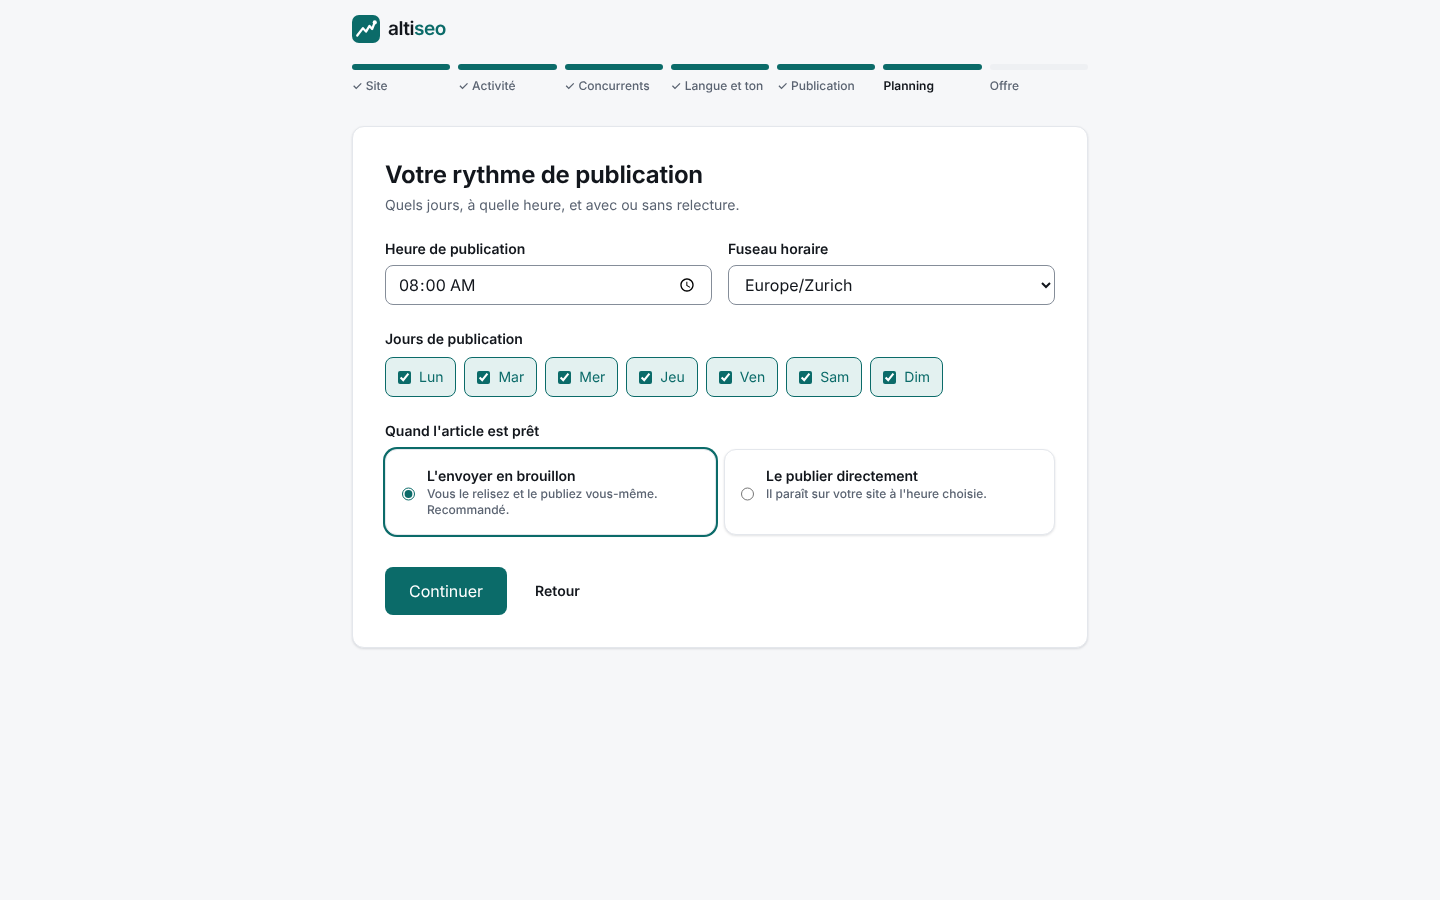
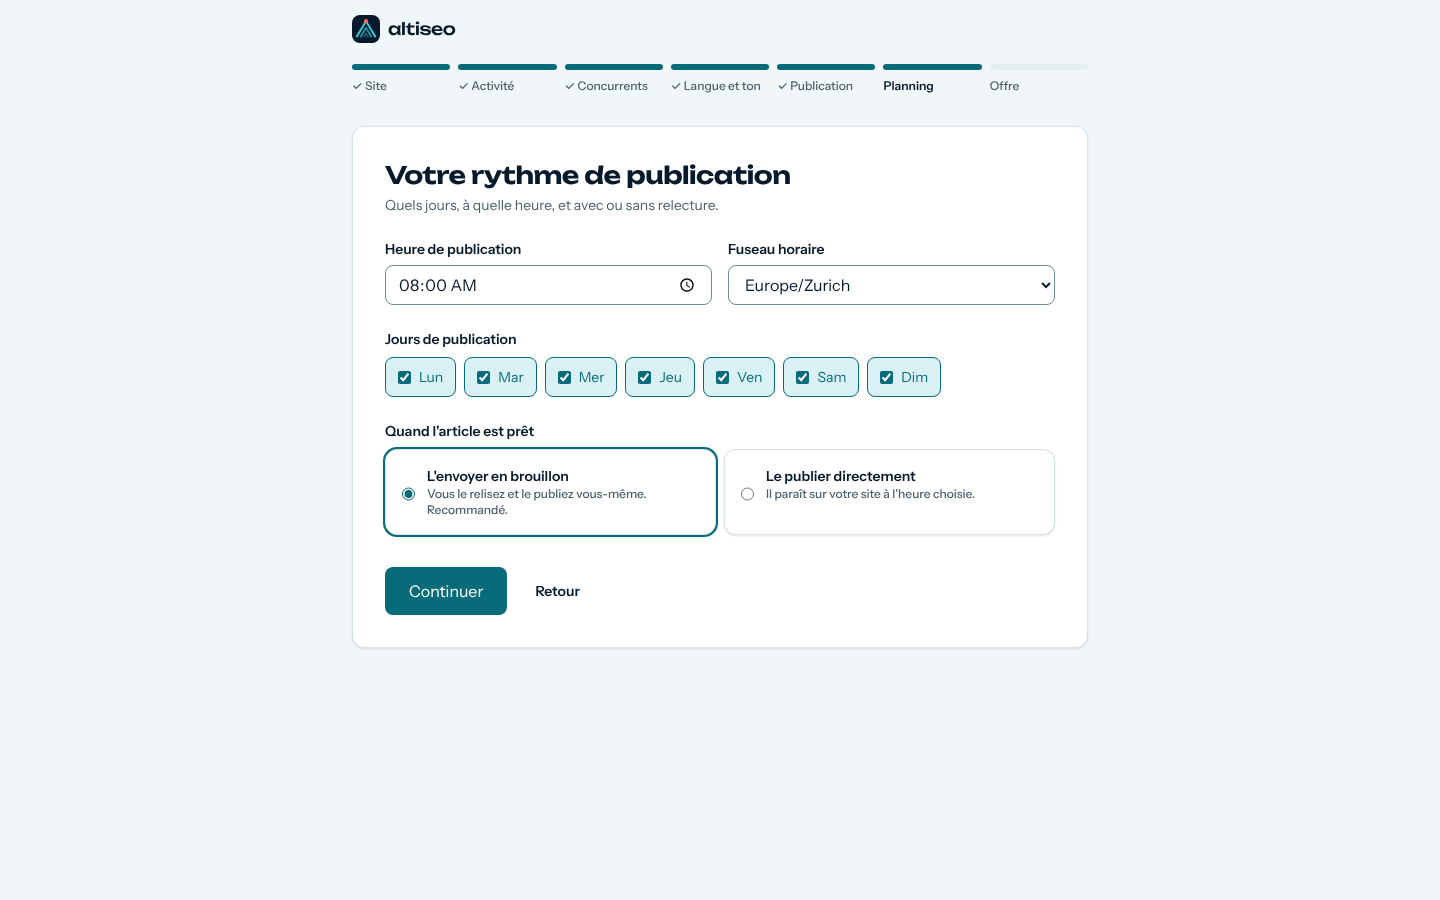
Apply the chosen brand identity across the app
Contour-line logo and favicon, glacier night / cyan / coral palette in
light and dark (53 contrast pairs passing AA; action colour darkened to
#076B7A so white text stays readable), Unbounded for the name and h1
headings, Instrument Sans for everything else. Brand charter written in
replica/brand.md, tokens remain the single source.

Claude-Session: https://claude.ai/code/session_011RBLGKB5dKpvgzhoEGGa65

diff --git a/src/styles/tokens.css b/src/styles/tokens.css
@@ -1,17 +1,17 @@
 /* Généré par build_tokens.py depuis tokens.json. Ne pas modifier à la main. */
 :root {
   --c-bg: 255 255 255;
-  --c-surface: 246 247 249;
-  --c-surface-sunken: 238 240 243;
-  --c-border: 228 231 236;
-  --c-border-input: 133 141 153;
-  --c-text: 18 22 28;
-  --c-text-muted: 90 99 113;
-  --c-accent: 11 107 105;
-  --c-accent-hover: 9 87 85;
-  --c-accent-soft: 227 241 240;
+  --c-surface: 241 247 249;
+  --c-surface-sunken: 228 238 241;
+  --c-border: 213 226 230;
+  --c-border-input: 110 138 147;
+  --c-text: 7 26 43;
+  --c-text-muted: 74 95 107;
+  --c-accent: 7 107 122;
+  --c-accent-hover: 5 88 106;
+  --c-accent-soft: 217 241 244;
   --c-on-accent: 255 255 255;
-  --c-focus: 11 107 105;
+  --c-focus: 7 107 122;
   --c-danger: 180 35 24;
   --c-danger-soft: 254 243 242;
   --c-warning: 147 55 13;
@@ -20,8 +20,12 @@
   --c-success-soft: 236 253 243;
   --c-info: 23 92 211;
   --c-info-soft: 239 248 255;
-  --font-sans: Inter, ui-sans-serif, system-ui, -apple-system, Segoe UI, Roboto, sans-serif;
-  --font-serif: Source Serif 4, Georgia, Cambria, serif;
+  --c-highlight: 255 106 77;
+  --c-brand-night: 7 26 43;
+  --c-brand-cyan: 53 208 224;
+  --font-sans: "Instrument Sans Variable", ui-sans-serif, system-ui, -apple-system, "Segoe UI", Roboto, sans-serif;
+  --font-display: "Unbounded Variable", "Instrument Sans Variable", ui-sans-serif, system-ui, sans-serif;
+  --font-serif: "Source Serif 4 Variable", Georgia, Cambria, serif;
   --font-mono: ui-monospace, SFMono-Regular, Menlo, Consolas, monospace;
   --radius-sm: 6px;
   --radius-md: 8px;
@@ -43,18 +47,18 @@
 }
 @media (prefers-color-scheme: dark) {
   :root:not([data-theme="light"]) {
-  --c-bg: 14 17 22;
-    --c-surface: 22 26 33;
-    --c-surface-sunken: 29 34 43;
-    --c-border: 42 48 58;
-    --c-border-input: 115 124 138;
-    --c-text: 238 241 245;
-    --c-text-muted: 163 171 184;
-    --c-accent: 94 201 195;
-    --c-accent-hover: 138 219 214;
-    --c-accent-soft: 17 48 47;
-    --c-on-accent: 14 17 22;
-    --c-focus: 94 201 195;
+  --c-bg: 7 26 43;
+    --c-surface: 12 36 56;
+    --c-surface-sunken: 18 48 72;
+    --c-border: 30 63 88;
+    --c-border-input: 108 142 162;
+    --c-text: 234 244 247;
+    --c-text-muted: 157 181 192;
+    --c-accent: 53 208 224;
+    --c-accent-hover: 111 224 236;
+    --c-accent-soft: 15 53 71;
+    --c-on-accent: 7 26 43;
+    --c-focus: 53 208 224;
     --c-danger: 249 112 102;
     --c-danger-soft: 58 21 18;
     --c-warning: 253 176 34;
@@ -63,22 +67,25 @@
     --c-success-soft: 12 44 29;
     --c-info: 132 202 255;
     --c-info-soft: 15 39 64;
+    --c-highlight: 255 106 77;
+    --c-brand-night: 7 26 43;
+    --c-brand-cyan: 53 208 224;
     color-scheme: dark;
   }
 }
 :root[data-theme="dark"] {
-  --c-bg: 14 17 22;
-  --c-surface: 22 26 33;
-  --c-surface-sunken: 29 34 43;
-  --c-border: 42 48 58;
-  --c-border-input: 115 124 138;
-  --c-text: 238 241 245;
-  --c-text-muted: 163 171 184;
-  --c-accent: 94 201 195;
-  --c-accent-hover: 138 219 214;
-  --c-accent-soft: 17 48 47;
-  --c-on-accent: 14 17 22;
-  --c-focus: 94 201 195;
+  --c-bg: 7 26 43;
+  --c-surface: 12 36 56;
+  --c-surface-sunken: 18 48 72;
+  --c-border: 30 63 88;
+  --c-border-input: 108 142 162;
+  --c-text: 234 244 247;
+  --c-text-muted: 157 181 192;
+  --c-accent: 53 208 224;
+  --c-accent-hover: 111 224 236;
+  --c-accent-soft: 15 53 71;
+  --c-on-accent: 7 26 43;
+  --c-focus: 53 208 224;
   --c-danger: 249 112 102;
   --c-danger-soft: 58 21 18;
   --c-warning: 253 176 34;
@@ -87,5 +94,8 @@
   --c-success-soft: 12 44 29;
   --c-info: 132 202 255;
   --c-info-soft: 15 39 64;
+  --c-highlight: 255 106 77;
+  --c-brand-night: 7 26 43;
+  --c-brand-cyan: 53 208 224;
   color-scheme: dark;
 }

diff --git a/src/components/brand/logo.tsx b/src/components/brand/logo.tsx
@@ -1,20 +1,18 @@
 /**
- * Logo provisoire d'Altiseo : une ligne qui monte en dessinant deux sommets (l'altitude, la courbe
- * de trafic), dans un carré sarcelle. Point de départ pour le graphiste, voir replica/brand.md.
+ * Logo d'Altiseo, « courbes de niveau » : trois lignes de carte topographique emboîtées dessinent un
+ * sommet et la lettre A ; le point corail marque le sommet atteint. Mêmes couleurs en clair et en
+ * sombre (jetons brand-night, brand-cyan, highlight). Voir replica/brand.md.
  */
 export function LogoMark({ size = 32, className }: { size?: number; className?: string }) {
   return (
     <svg width={size} height={size} viewBox="0 0 32 32" className={className} aria-hidden="true" focusable="false">
-      <rect width="32" height="32" rx="8" className="fill-accent" />
-      <path
-        d="M6 23.5 12.5 15l3.5 4 4-6.5 3 3.5L26 8.5"
-        fill="none"
-        className="stroke-on-accent"
-        strokeWidth="2.6"
-        strokeLinecap="round"
-        strokeLinejoin="round"
-      />
-      <circle cx="26" cy="8.5" r="2.4" className="fill-on-accent" />
+      <rect width="32" height="32" rx="9" className="fill-brand-night" />
+      <g fill="none" className="stroke-brand-cyan" strokeWidth="2.2" strokeLinecap="round" strokeLinejoin="round">
+        <path d="M5.5 24.5 16 7l10.5 17.5" />
+        <path d="M10.2 24.5 16 14.6l5.8 9.9" opacity=".65" />
+        <path d="M14 24.5l2-3.4 2 3.4" opacity=".35" />
+      </g>
+      <circle cx="16" cy="7" r="2.3" className="fill-highlight" />
     </svg>
   );
 }
@@ -23,9 +21,7 @@ export function Logo({ size = 32, className }: { size?: number; className?: stri
   return (
     <span className={`inline-flex items-center gap-2 ${className ?? ""}`}>
       <LogoMark size={size} />
-      <span aria-hidden="true" className="font-semibold tracking-tight text-text" style={{ fontSize: size * 0.68 }}>
-        alti<span className="text-accent">seo</span>
-      </span>
+      <span aria-hidden="true" className="font-display font-medium tracking-tight text-text" style={{ fontSize: size * 0.6 }}>altiseo</span>
       <span className="sr-only">Altiseo</span>
     </span>
   );

diff --git a/src/app/globals.css b/src/app/globals.css
@@ -1,4 +1,5 @@
-@import "@fontsource-variable/inter";
+@import "@fontsource-variable/instrument-sans";
+@import "@fontsource-variable/unbounded";
 @import "@fontsource-variable/source-serif-4";
 @import "../styles/tokens.css";
 @tailwind base;
@@ -6,12 +7,10 @@
 @tailwind utilities;
 
 @layer base {
-  :root {
-    --font-sans: "Inter Variable", ui-sans-serif, system-ui, -apple-system, "Segoe UI", Roboto, sans-serif;
-    --font-serif: "Source Serif 4 Variable", Georgia, Cambria, serif;
-  }
   html { @apply bg-bg text-text font-sans antialiased; }
   h1, h2, h3 { font-weight: 650; letter-spacing: -0.01em; }
+  /* Unbounded (très large) : réservé au nom et aux grands titres. */
+  h1 { font-family: var(--font-display); font-weight: 500; letter-spacing: -0.02em; line-height: 1.2; }
   :focus-visible { outline: none; box-shadow: var(--shadow-focus); }
   @media (prefers-reduced-motion: reduce) {
     *, *::before, *::after { animation: none !important; transition: none !important; }

diff --git a/src/app/design/showcase.tsx b/src/app/design/showcase.tsx
@@ -58,8 +58,8 @@ export function Showcase() {
           <Logo size={24} />
           <LogoMark size={48} />
           <LogoMark size={16} />
-          <div className="flex gap-2">
-            {["bg-accent", "bg-accent-hover", "bg-accent-soft", "bg-text", "bg-surface", "bg-success", "bg-warning", "bg-danger", "bg-info"].map((c) => (
+          <div className="flex flex-wrap gap-2">
+            {["bg-brand-night", "bg-brand-cyan", "bg-highlight", "bg-accent", "bg-accent-soft", "bg-surface", "bg-success", "bg-warning", "bg-danger", "bg-info"].map((c) => (
               <span key={c} title={c} className={`size-8 rounded-md border border-border ${c}`} />
             ))}
           </div>

diff --git a/tailwind.preset.ts b/tailwind.preset.ts
@@ -34,10 +34,14 @@ export default {
         "success": c("success"),
         "success-soft": c("success-soft"),
         "info": c("info"),
-        "info-soft": c("info-soft")
+        "info-soft": c("info-soft"),
+        "highlight": c("highlight"),
+        "brand-night": c("brand-night"),
+        "brand-cyan": c("brand-cyan")
       },
       fontFamily: {
         sans: ["var(--font-sans)"],
+        display: ["var(--font-display)"],
         serif: ["var(--font-serif)"],
         mono: ["var(--font-mono)"],
       },

diff --git a/src/app/layout.tsx b/src/app/layout.tsx
@@ -9,7 +9,7 @@ export const metadata: Metadata = {
 export const viewport: Viewport = {
   themeColor: [
     { media: "(prefers-color-scheme: light)", color: "#ffffff" },
-    { media: "(prefers-color-scheme: dark)", color: "#0e1116" },
+    { media: "(prefers-color-scheme: dark)", color: "#071a2b" },
   ],
 };
 

diff --git a/replica/design/build_tokens.py b/replica/design/build_tokens.py
@@ -34,7 +34,7 @@ def main():
         return "\n".join("  --c-%s: %s;" % (k, rgb(v)) for k, v in cols.items())
 
     lines = ["/* Généré par build_tokens.py depuis tokens.json. Ne pas modifier à la main. */", ":root {", block(light)]
-    lines += ["  --font-sans: %s;" % t["font"]["sans"], "  --font-serif: %s;" % t["font"]["serif"],
+    lines += ["  --font-sans: %s;" % t["font"]["sans"], "  --font-display: %s;" % t["font"]["display"], "  --font-serif: %s;" % t["font"]["serif"],
               "  --font-mono: %s;" % t["font"]["mono"]]
     for k, v in t["radius"].items():
         lines.append("  --radius-%s: %dpx;" % (k, v))
@@ -80,6 +80,7 @@ export default {
       },
       fontFamily: {
         sans: ["var(--font-sans)"],
+        display: ["var(--font-display)"],
         serif: ["var(--font-serif)"],
         mono: ["var(--font-mono)"],
       },

diff --git a/replica/brand.md b/replica/brand.md
@@ -20,32 +20,47 @@ Ce ne sont que des vérifications de base, pas un avis juridique : faire faire u
 par un spécialiste avant d'investir. Ne pas utiliser « Swiss », « Suisse », « Helvetia » ni la croix
 suisse dans la marque sans vérifier les règles « Swissness ».
 
-## Couleurs
+## Charte « courbes de niveau » (choisie le 2026-11-11, direction D)
 
-Couleur principale : **sarcelle alpine**, à mi-chemin entre le vert des forêts et le bleu des lacs.
-Sérieuse sans être le bleu de tous les outils SEO, et loin du rouge (réservé aux erreurs, et à la
-croix suisse).
+Planches des propositions : `replica/brand/propositions.png` (A, B, C) et `replica/brand/melanges.png` (D, E).
 
-| rôle | clair | sombre |
+### Logo
+
+`src/components/brand/logo.tsx`, icône d'onglet `src/app/icon.svg`, fichier source `replica/brand/altiseo-D.svg`.
+
+- **Symbole** : dans un carré arrondi nuit glaciaire, trois lignes de carte topographique emboîtées
+  dessinent un sommet et la lettre A ; un point corail marque le sommet atteint.
+- **Nom** : « altiseo » en minuscules, Unbounded 500, d'une seule couleur.
+- Le symbole garde les mêmes couleurs en mode clair et en mode sombre.
+- Taille minimale : 16 px pour le symbole seul. Marge libre autour : la moitié de sa largeur.
+- À ne pas faire : changer les couleurs, déformer, mettre le symbole sur une photo chargée,
+  écrire le nom dans une autre police.
+- C'est une proposition de travail : un graphiste peut la finaliser (SVG, icône 1024 × 1024 sans
+  transparence, image de partage 1200 × 630). Interdits : la croix suisse, toute ressemblance avec
+  le logo d'un outil SEO existant.
+
+### Couleurs
+
+| rôle | nom | clair | sombre | usage |
+| --- | --- | --- | --- | --- |
+| `brand-night` | Nuit glaciaire | `#071A2B` | `#071A2B` | fond du logo, texte, fond du mode sombre |
+| `brand-cyan` | Cyan glacier | `#35D0E0` | `#35D0E0` | logo ; couleur d'action en mode sombre |
+| `accent` | Cyan lisible | `#076B7A` | `#35D0E0` | boutons, liens, éléments actifs |
+| `highlight` | Corail du matin | `#FF6A4D` | `#FF6A4D` | touche rare : sommet du logo, « nouveau » sur fond sombre |
+| `surface` | Glace | `#F1F7F9` | `#0C2438` | fonds de page |
+
+Le cyan vif ne porte pas de texte blanc lisible : sur fond clair, l'action utilise le cyan foncé
+`#076B7A` (6,2:1). Le corail n'est jamais une couleur de texte sur fond clair, ni une couleur d'erreur
+(le rouge reste réservé aux erreurs). Toutes les valeurs : `replica/design/tokens.json`.
+Contrôle : `npm run tokens` (53 paires, 0 échec AA).
+
+### Typographie
+
+| police | rôle | licence |
 | --- | --- | --- |
-| accent | `#0b6b69` | `#5ec9c3` |
-| accent au survol | `#095755` | `#8adbd6` |
-| fond d'accent | `#e3f1f0` | `#11302f` |
-
-Toutes les autres couleurs (neutres, états) : `replica/design/tokens.json`. Contrôle :
-`npm run tokens` (48 paires, 0 échec AA).
-
-## Logo (provisoire)
-
-`src/components/brand/logo.tsx` : une ligne qui monte en dessinant deux sommets (l'altitude et la
-courbe de trafic), en blanc dans un carré sarcelle arrondi ; à côté, « alti**seo** » en Inter
-semi-gras, « seo » en sarcelle.
-
-Brief pour le logo définitif (graphiste ou outil d'image) :
-- l'idée : grimper, des sommets suisses à la première page de Google ;
-- un symbole + le nom écrit ; le symbole seul doit rester lisible à 16 px (favicon) ;
-- livrables : SVG, icône 1024 × 1024 sans transparence, favicons, image de partage 1200 × 630 ;
-- interdit : la croix suisse, l'edelweiss tel quel, toute ressemblance avec un logo d'outil SEO existant.
+| Unbounded (500) | le nom et les grands titres (`h1`) seulement : elle est très large | OFL |
+| Instrument Sans | tout le reste : texte, boutons, intertitres | OFL |
+| Source Serif 4 | aperçu des articles (lecture longue) | OFL |
 
 ## Ton
 

diff --git a/replica/design/components.md b/replica/design/components.md
@@ -11,7 +11,7 @@ Règles communes :
 - **cible tactile ≥ 40 px** sur mobile ; textes en 14 px minimum dans l'app, 16 px dans les formulaires ;
 - **icônes** : Lucide (licence ISC), 16 px dans les boutons et pastilles, 20 px dans la navigation,
   `aria-hidden` quand un texte les accompagne ;
-- **police** : Inter (licence OFL) pour l'interface, Source Serif 4 (OFL) pour l'aperçu des articles ;
+- **polices** : Unbounded pour le nom et les `h1`, Instrument Sans pour l'interface, Source Serif 4 pour l'aperçu des articles (toutes OFL) ;
 - **mouvement** : 120–200 ms ; rien d'animé si `prefers-reduced-motion`.
 
 ```

diff --git a/README.md b/README.md
@@ -40,7 +40,7 @@ npm run test:db      # schéma + RLS sur un Postgres 16 local (initdb, pg_ctl, p
 
 Next.js 15 (App Router) + TypeScript + Tailwind CSS 3. Couleurs, tailles et rayons uniquement par
 les jetons : `replica/design/tokens.json` → `src/styles/tokens.css` + `tailwind.preset.ts`
-(`npm run tokens`), mode clair et sombre. Polices Inter et Source Serif 4 (licence OFL), icônes
+(`npm run tokens`), mode clair et sombre. Polices Unbounded, Instrument Sans et Source Serif 4 (licence OFL), icônes
 Lucide (ISC).
 
 ## Vérifier le parcours complet
